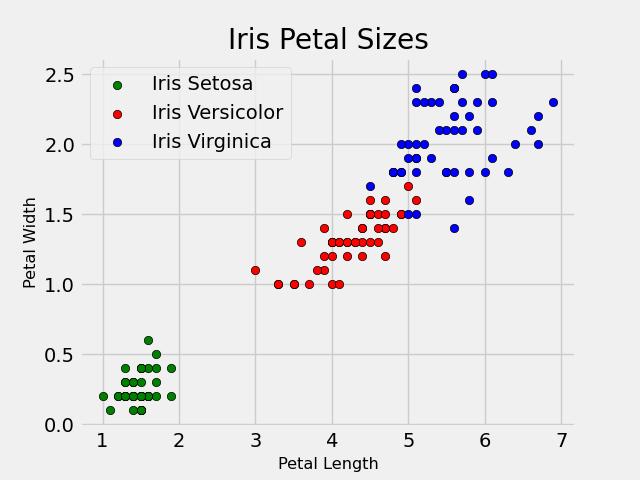
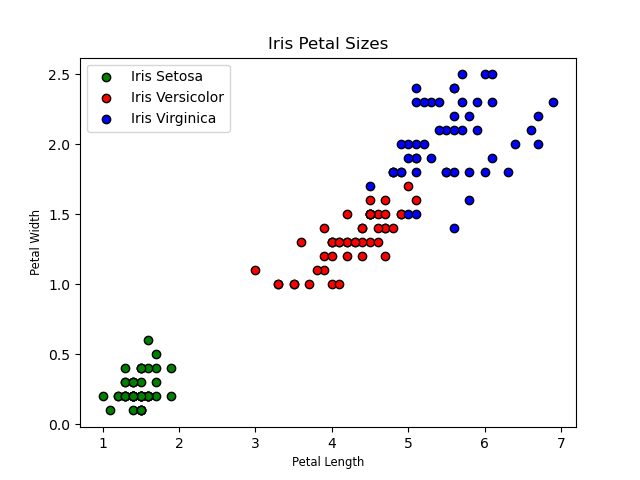
Fixed the issue of plot styles not applying

diff --git a/plots_file.py b/plots_file.py
@@ -6,16 +6,20 @@ import numpy as np
 # Code for ploting the histogram and saving it as png.  References https://matplotlib.org/3.5.0/api/_as_gen/matplotlib.pyplot.hist.html https://www.youtube.com/watch?v=XDv6T4a0RNc&t=246s, https://stackoverflow.com/questions/16180946/drawing-average-line-in-histogram-matplotlib
 # https://stackoverflow.com/questions/8213522/when-to-use-cla-clf-or-close-for-clearing-a-plot-in-matplotlib. 
 
+# Functions created for Ploting Histograms and styling it. Also add the line of code "with plt.style.context('seaborn-paper', after_reset=True):" as a solution to fix the issue
+# of plot styles not applying after the first plot is created. I have tried reseting deleting/clearing the plot figure with plt.clf however the style still was not being applied,
+# so I decide to use the style.context + clf, insted of style.use,  to kind of force the applicaation of the plot style
+
 def sepal_length_hist(database):
     plt.clf()
-    plt.hist(database, bins=9, edgecolor="black")
-    plt.style.use("fivethirtyeight")
-    plt.title("Occurrences by Sepal Length")
-    plt.xlabel("Sepal Length")
-    plt.ylabel("Occurrences")
-    plt.axvline(database.mean(), color='Red', linestyle="--", linewidth=1.3, label = "Median Lenght")  
-    plt.legend(fontsize = "x-small")    
-    plt.savefig("Sepal_length_hist.png")
+    with plt.style.context('fivethirtyeight', after_reset=True):
+        plt.hist(database, bins=9, edgecolor="black")
+        plt.title("Occurrences by Sepal Length")
+        plt.xlabel("Sepal Length")
+        plt.ylabel("Occurrences")
+        plt.axvline(database.mean(), color='Red', linestyle="--", linewidth=1.3, label = "Median Lenght")  
+        plt.legend(fontsize = "small")    
+        plt.savefig("Sepal_length_histogram.png")
     return
     
 
@@ -23,39 +27,41 @@ def sepal_length_hist(database):
 
 def sepal_width_hist(database):
     plt.clf()
-    plt.hist(database, bins=9, edgecolor="black")
-    plt.style.use("fivethirtyeight")
-    plt.title("Occurrences by Sepal Width")
-    plt.xlabel("Sepal Width")
-    plt.ylabel("Occurrences")
-    plt.axvline(database.mean(), color='Red', linestyle="--", linewidth=1.3)    
-    plt.savefig("Sepal_width_hist.png")
+    with plt.style.context('fivethirtyeight', after_reset=True):
+        plt.hist(database, bins=9, edgecolor="black")
+        plt.title("Occurrences by Sepal Width")
+        plt.xlabel("Sepal Width")
+        plt.ylabel("Occurrences")
+        plt.axvline(database.mean(), color='Red', linestyle="--", linewidth=1.3)    
+        plt.legend(fontsize = "small")
+        plt.savefig("Sepal_width_histogram.png")
     return
 
 
 def petal_length_hist(database):
     plt.clf()
-    plt.hist(database, bins=9, edgecolor="black")
-    plt.style.use('fivethirtyeight')
-    plt.title("Occurrences by Petal Length")
-    plt.xlabel("Petal length")
-    plt.ylabel("Occurrences")
-    plt.axvline(database.mean(), color='Red', linestyle="--", linewidth=1.3, label = "Median Lenght")  
-    plt.legend() 
-    plt.savefig("Petal_length_hist.png")
+    with plt.style.context('fivethirtyeight', after_reset=True):
+        plt.hist(database, bins=9, edgecolor="black")
+        plt.title("Occurrences by Petal Length")
+        plt.xlabel("Petal length")
+        plt.ylabel("Occurrences")
+        plt.axvline(database.mean(), color='Red', linestyle="--", linewidth=1.3, label = "Median Lenght")  
+        plt.legend(fontsize = "small")
+        plt.savefig("Petal_length_histogram.png")
     return
     
     
 
 def petal_width_hist(database):
     plt.clf()
-    plt.hist(database, bins=9, edgecolor="black")
-    plt.style.use("fivethirtyeight")
-    plt.title("Occurrences by Petal Width")
-    plt.xlabel("Petal width")
-    plt.ylabel("Occurrences")
-    plt.axvline(database.mean(), color='Red', linestyle="--", linewidth=1.3)
-    plt.savefig("Petal_width_hist.png")
+    with plt.style.context('fivethirtyeight', after_reset=True):
+        plt.hist(database, bins=9, edgecolor="black")
+        plt.title("Occurrences by Petal Width")
+        plt.xlabel("Petal width")
+        plt.ylabel("Occurrences")
+        plt.axvline(database.mean(), color='Red', linestyle="--", linewidth=1.3)
+        plt.legend(fontsize = "small")
+        plt.savefig("Petal_width_histogram.png")
     return
 
 
@@ -65,29 +71,27 @@ def petal_width_hist(database):
 
 def scatter_plot_petal(setosa_length,setosa_width, versicolor_length, versicolor_width,virginica_length, virginica_width ):
     plt.clf()
-    plt.cla()
-    setosa = plt.scatter(setosa_length, setosa_width, color = 'Green', edgecolors='Black')
-    versicolor = plt.scatter(versicolor_length, versicolor_width, color = 'Red', edgecolors='Black')
-    virginica = plt.scatter(virginica_length, virginica_width, color = 'Blue', edgecolors='Black')
-    plt.style.use('seaborn-dark-palette')
-    plt.title('Iris Petal Sizes')
-    plt.xlabel('Petal Length', fontsize = "small")
-    plt.ylabel('Petal Width', fontsize = "small")
-    plt.legend((setosa, versicolor, virginica), ('Iris Setosa', 'Iris Versicolor', 'Iris Virginica'), scatterpoints = 1)
-    plt.savefig('Petal_sizes_scatter.png')
+    with plt.style.context('seaborn-dark-palette', after_reset=True):
+        setosa = plt.scatter(setosa_length, setosa_width, color = 'Green', edgecolors='Black')
+        versicolor = plt.scatter(versicolor_length, versicolor_width, color = 'Red', edgecolors='Black')
+        virginica = plt.scatter(virginica_length, virginica_width, color = 'Blue', edgecolors='Black')
+        plt.title('Iris Petal Sizes')
+        plt.xlabel('Petal Length', fontsize = "small")
+        plt.ylabel('Petal Width', fontsize = "small")
+        plt.legend((setosa, versicolor, virginica), ('Iris Setosa', 'Iris Versicolor', 'Iris Virginica'), scatterpoints = 1)
+        plt.savefig('Petal_sizes_scatter.png')
     return
 
 
 def scatter_plot_sepal(setosa_length,setosa_width, versicolor_length, versicolor_width,virginica_length, virginica_width ):
     plt.clf()
-    plt.cla()
-    setosa = plt.scatter(setosa_length, setosa_width, color = 'Green', edgecolors='Black')
-    versicolor = plt.scatter(versicolor_length, versicolor_width, color = 'Red', edgecolors='Black')
-    virginica = plt.scatter(virginica_length, virginica_width, color = 'Blue', edgecolors='Black')
-    plt.style.use('seaborn-dark-palette')
-    plt.title('Iris Sepal Sizes')
-    plt.xlabel('Sepal Length', fontsize = "small")
-    plt.ylabel('Sepal Width', fontsize = "small")
-    plt.legend((setosa, versicolor, virginica), ('Iris Setosa', 'Iris Versicolor', 'Iris Virginica'), scatterpoints = 1)
-    plt.savefig('Sepal_sizes_scatter.png')
+    with plt.style.context('seaborn-dark-palette', after_reset=True):
+        setosa = plt.scatter(setosa_length, setosa_width, color = 'Green', edgecolors='Black')
+        versicolor = plt.scatter(versicolor_length, versicolor_width, color = 'Red', edgecolors='Black')
+        virginica = plt.scatter(virginica_length, virginica_width, color = 'Blue', edgecolors='Black')
+        plt.title('Iris Sepal Sizes')
+        plt.xlabel('Sepal Length', fontsize = "small")
+        plt.ylabel('Sepal Width', fontsize = "small")
+        plt.legend((setosa, versicolor, virginica), ('Iris Setosa', 'Iris Versicolor', 'Iris Virginica'), scatterpoints = 1)
+        plt.savefig('Sepal_sizes_scatter.png')
     return

diff --git a/analysis.py b/analysis.py
@@ -36,8 +36,9 @@ plots.sepal_width_hist(iris_df['Sepal width'])
 plots.petal_length_hist(iris_df['Petal length'])
 plots.petal_width_hist(iris_df['Petal width'])
 
-# Creating the Scatter plots using Matplotlib. Add https://stackoverflow.com/questions/17411940/matplotlib-scatter-plot-legend , https://realpython.com/visualizing-python-plt-scatter/
-# Still need to check why the style is not getting applied to the plot
+# ### Importing the plots functions from the plots module created, these function will create a histogram plot. These function take one argument which is Database name and column name
+### following the format database['column'] in this case the database is iris_df.
+# References: https://stackoverflow.com/questions/17411940/matplotlib-scatter-plot-legend , https://realpython.com/visualizing-python-plt-scatter/
 
 
 
